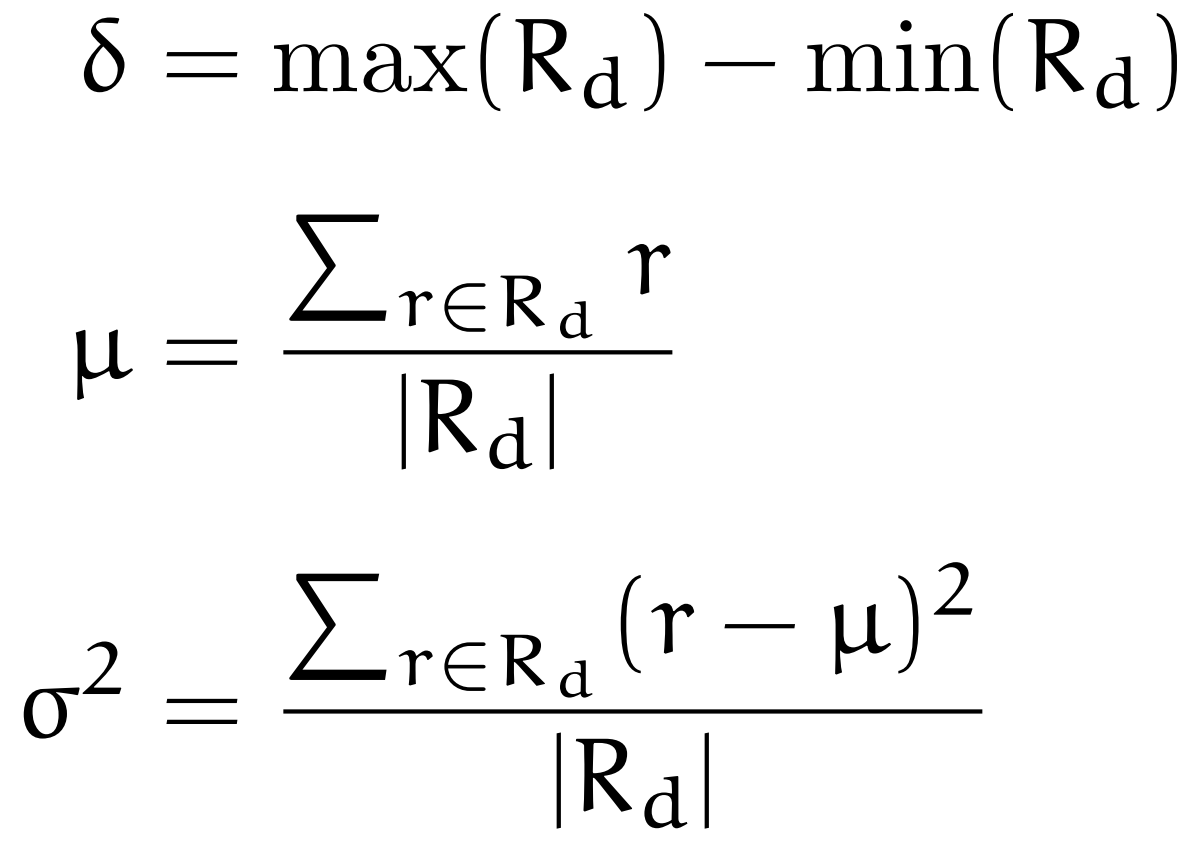
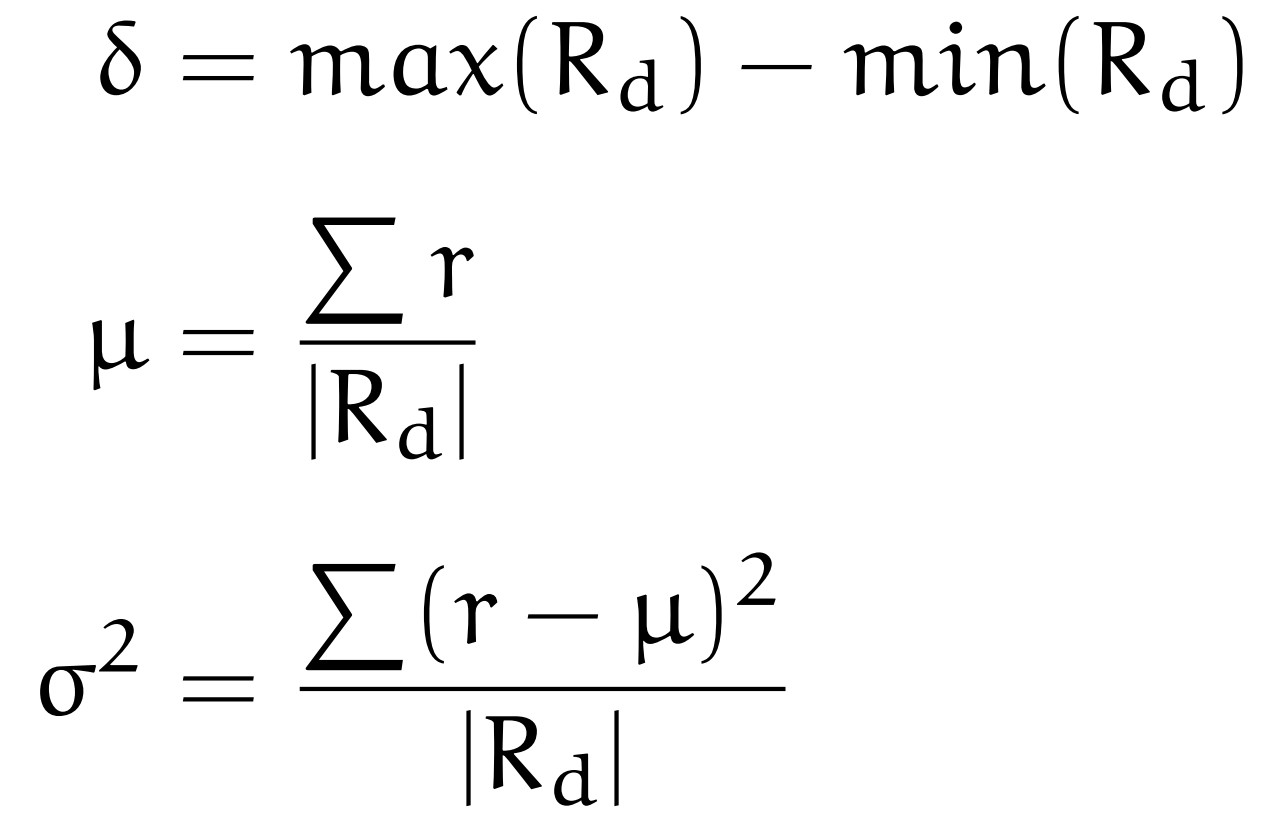
Adjust colors

diff --git a/index.html b/index.html
@@ -144,7 +144,7 @@
                     id="formula_yar"></span>
                 is your average rating and <i>R<sub>d</sub></i> denotes
                 all of your ratings for films by director <i>d</i>:
-                <center><img src='img/formula.png' width='200'></center>
+                <center><img src='img/formula.png' width='180'></center>
                 <br>
                 <center>
                     sort directors by their &nbsp;
@@ -170,7 +170,8 @@
             <p>
                 <question>Which directors do you feel most ambiguous about?</question>
                 This chart orders directors by the variance σ<sup>2</sup> of their film's rating. It additionally shows the average rating μ and the difference δ between the best and worst rating.
-                <center><img src='img/formula-variance.png' width='230'></center>
+                <center><img src='img/formula-variance.png' width='210'></center>
+                <br>
                 <div id="chart-ambiguous" style="width:800px; height:300px;" class="chart">
                     <canvas id="ctx1b" width="800" height="300"></canvas>
                 </div>

diff --git a/src/analysis.js b/src/analysis.js
@@ -515,13 +515,13 @@ const displayCoutryStatsAsync = function () {
             }
 
             let dataset_coprod_main = {
-                backgroundColor: "#0000a0",
+                backgroundColor: "#4444ff",
                 label: '# of coproductions (main)',
                 data: [...top_countries.map(entry => entry.films_main.length - entry.film_cnt), sum(countries.slice(N_2), getter("film_cnt"))]
             }
 
             let dataset_coprod = {
-                backgroundColor: "#0000ff",
+                backgroundColor: "#aaaaff",
                 label: '# of coproductions (minor)',
                 data: [...top_countries.map(entry => entry.films.length - entry.films_main.length), sum(countries.slice(N_2), getter("film_cnt"))]
             }

diff --git a/img/formula-variance.tex b/img/formula-variance.tex
@@ -3,8 +3,12 @@
 \usepackage{euler}
 \begin{document}
 	\begin{align*}
-		\delta &= \max(R_d) - \min(R_d) \\[4pt]
-		\mu &= \frac{\sum_{r\in R_d} r}{|R_d|} \\[4pt] 
-	\sigma^2 &= \frac{\sum_{r\in R_d} (r-\mu)^2}{|R_d|}
+		\delta &= max(R_d) - min(R_d) \\[4pt]
+		\mu &= \frac{\sum
+			%_{r\in R_d} 
+			r}{|R_d|} \\[4pt] 
+	\sigma^2 &= \frac{\sum
+		%_{r\in R_d} 
+		(r-\mu)^2}{|R_d|}
 \end{align*}
 \end{document}
